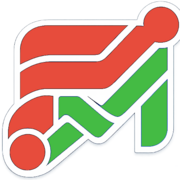
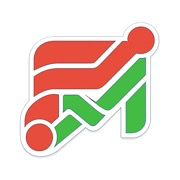
fix: вход с телефона на плохой сети — вход прерывается через 15 с и пишет «нет связи с сервером» вместо «ошибки на сервере», установленное приложение показывает сохранённую страницу, если сеть не ответила за 4 с, а значок для iPhone стал непрозрачным (прозрачный фон iOS заливает чёрным)

diff --git a/frontend/public/sw.js b/frontend/public/sw.js
@@ -3,7 +3,10 @@
 // страница и файлы без хеша в имени всегда берутся из сети (кэш — только на
 // случай, когда сети нет), а файлы сборки с хешем в имени не меняются и
 // берутся из кэша.
-const CACHE_NAME = 'pm-dashboard-v3.1.0'
+const CACHE_NAME = 'pm-dashboard-v3.1.1'
+// Сколько ждать сеть, прежде чем показать сохранённую страницу: на плохой
+// мобильной сети запрос иначе висит до тайм-аута телефона (минута и больше)
+const NAVIGATE_TIMEOUT_MS = 4000
 const SHELL = ['/index.html', '/manifest.json', '/favicon.svg']
 
 self.addEventListener('install', (event) => {
@@ -43,18 +46,22 @@ self.addEventListener('fetch', (event) => {
   if (url.origin !== self.location.origin) return
   if (url.pathname.startsWith('/api/') || url.pathname.startsWith('/ws')) return
 
-  // Страница: из сети, без сети — сохранённая копия
+  // Страница: из сети; если сети нет или она не ответила вовремя — сохранённая
+  // копия (а когда сеть всё же ответит, копия обновится)
   if (request.mode === 'navigate') {
+    const network = fetch(request).then((response) => {
+      if (response.ok) {
+        const clone = response.clone()
+        caches.open(CACHE_NAME).then((cache) => cache.put('/index.html', clone))
+      }
+      return response
+    })
+    const cached = () => caches.match('/index.html')
+    const late = new Promise((resolve) => setTimeout(resolve, NAVIGATE_TIMEOUT_MS)).then(cached)
     event.respondWith(
-      fetch(request)
-        .then((response) => {
-          if (response.ok) {
-            const clone = response.clone()
-            caches.open(CACHE_NAME).then((cache) => cache.put('/index.html', clone))
-          }
-          return response
-        })
-        .catch(() => caches.match('/index.html'))
+      Promise.race([network, late])
+        .then((response) => response || network)
+        .catch(() => cached().then((copy) => copy || network))
     )
     return
   }

diff --git a/frontend/src/views/LoginView.vue b/frontend/src/views/LoginView.vue
@@ -95,8 +95,11 @@ async function handleLogin() {
     const code = e?.response?.data?.error
     const key = code === 'USER_BLOCKED' ? 'error_blocked'
       : code === 'TOO_MANY_ATTEMPTS' ? 'error_too_many_attempts'
+      // Ответа нет вовсе (нет сети, сервер недоступен, истекло время) —
+      // это не ошибка сервера и не неверный пароль
+      : !e?.response ? 'error_network'
       // Сбой на сервере — не повод говорить, что пароль неверный
-      : (e?.response?.status ?? 500) >= 500 ? 'error_server'
+      : e.response.status >= 500 ? 'error_server'
       : 'error_invalid_credentials'
     error.value = i18n.global.t(`auth.${key}`)
   } finally {

diff --git a/frontend/src/stores/auth.ts b/frontend/src/stores/auth.ts
@@ -58,7 +58,9 @@ export const useAuthStore = defineStore('auth', () => {
   }
 
   async function login(username: string, password: string) {
-    const { data } = await axios.post('/api/auth/login', { username, password })
+    // Без ответа за 15 с вход прерывается: на плохой сети телефон иначе
+    // ждёт минуту и дольше, и пользователь не понимает, что происходит
+    const { data } = await axios.post('/api/auth/login', { username, password }, { timeout: 15000 })
     user.value = data.user
     isAuthenticated.value = true
     return data
